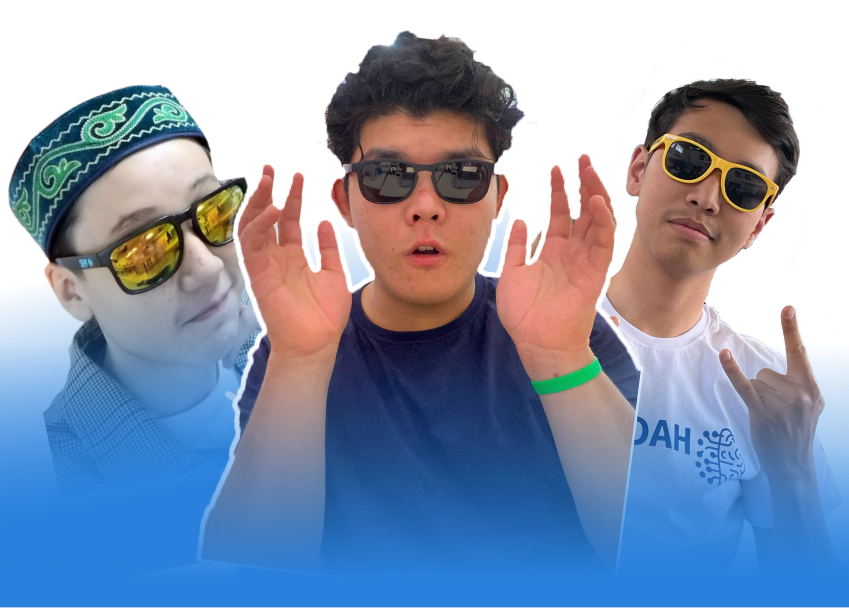
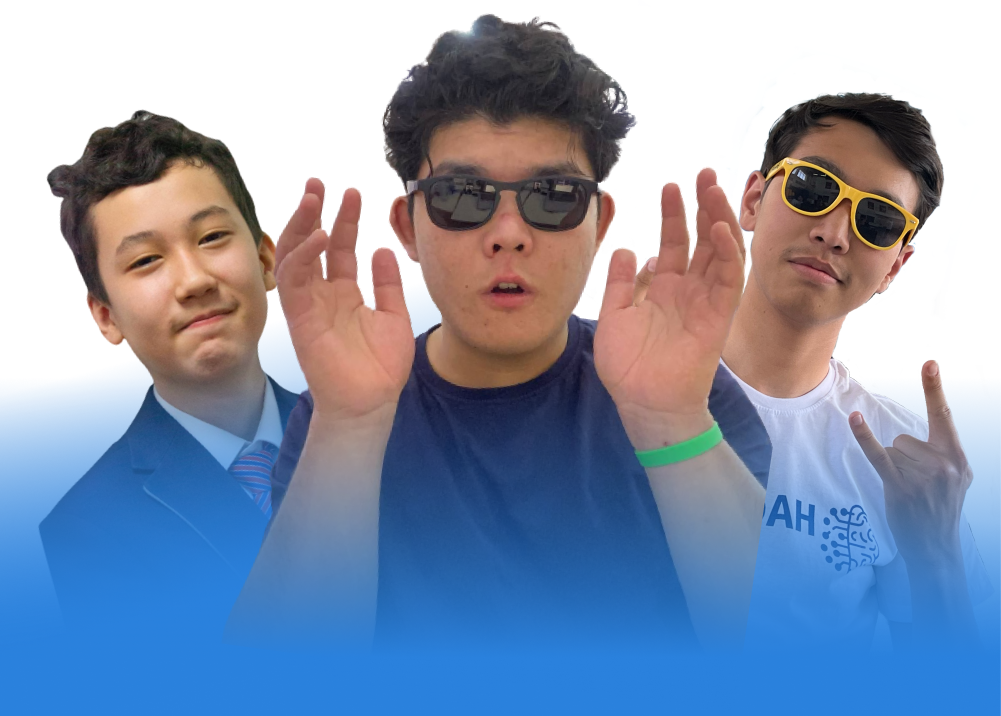
feat: add instagram link in profile and change developers image

diff --git a/lib/modules/profile/view/components/profile_links.dart b/lib/modules/profile/view/components/profile_links.dart
@@ -118,11 +118,11 @@ class ProfileLinks extends StatelessWidget {
             const Title(text: "О приложении"),
             SizedBox(height: 16.h),
             ProfileLink(
-              icon: FontAwesomeIcons.userTie,
-              text: "Политика конфиденциальности",
+              icon: FontAwesomeIcons.instagram,
+              text: "Наш Instagram",
               onPressed: () async {
                 // ignore: deprecated_member_use
-                await launch("https://nissenger.com");
+                await launch("https://www.instagram.com/nissenger.app/");
               },
             ),
             ProfileLink(
@@ -152,6 +152,14 @@ class ProfileLinks extends StatelessWidget {
                   context: context,
                   builder: (context) => const AboutScheduleModal(),
                 );
+              },
+            ),
+            ProfileLink(
+              icon: FontAwesomeIcons.userTie,
+              text: "Политика конфиденциальности",
+              onPressed: () async {
+                // ignore: deprecated_member_use
+                await launch("https://nissenger.com");
               },
             ),
           ],

diff --git a/lib/modules/profile/view/components/profile_link.dart b/lib/modules/profile/view/components/profile_link.dart
@@ -22,7 +22,7 @@ class ProfileLink extends StatelessWidget {
     ThemeData theme = Theme.of(context);
 
     return Padding(
-      padding: EdgeInsets.only(bottom: 20.h),
+      padding: EdgeInsets.only(bottom: 16.h),
       child: SizedBox(
         height: 30.h,
         child: CupertinoButton(
